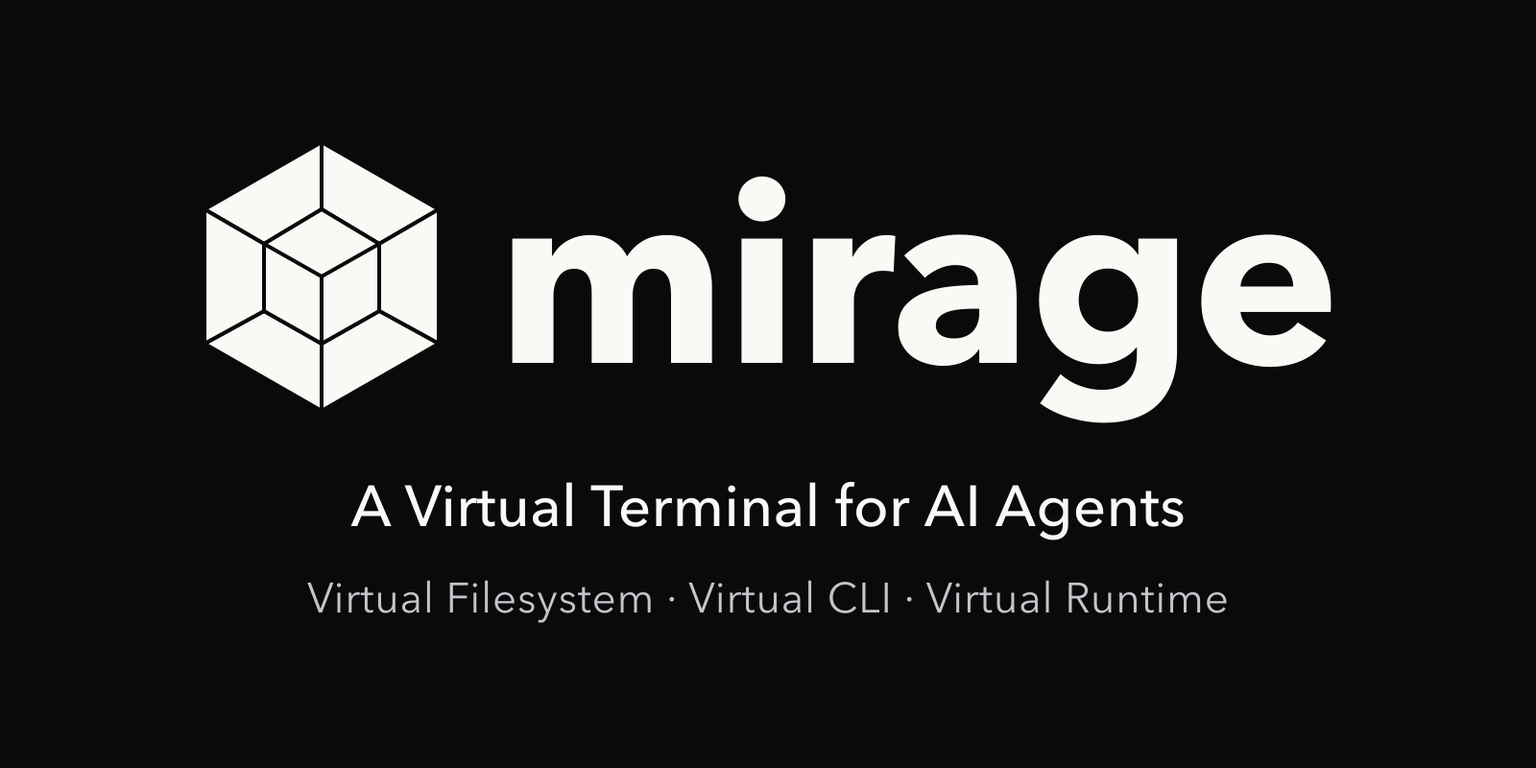
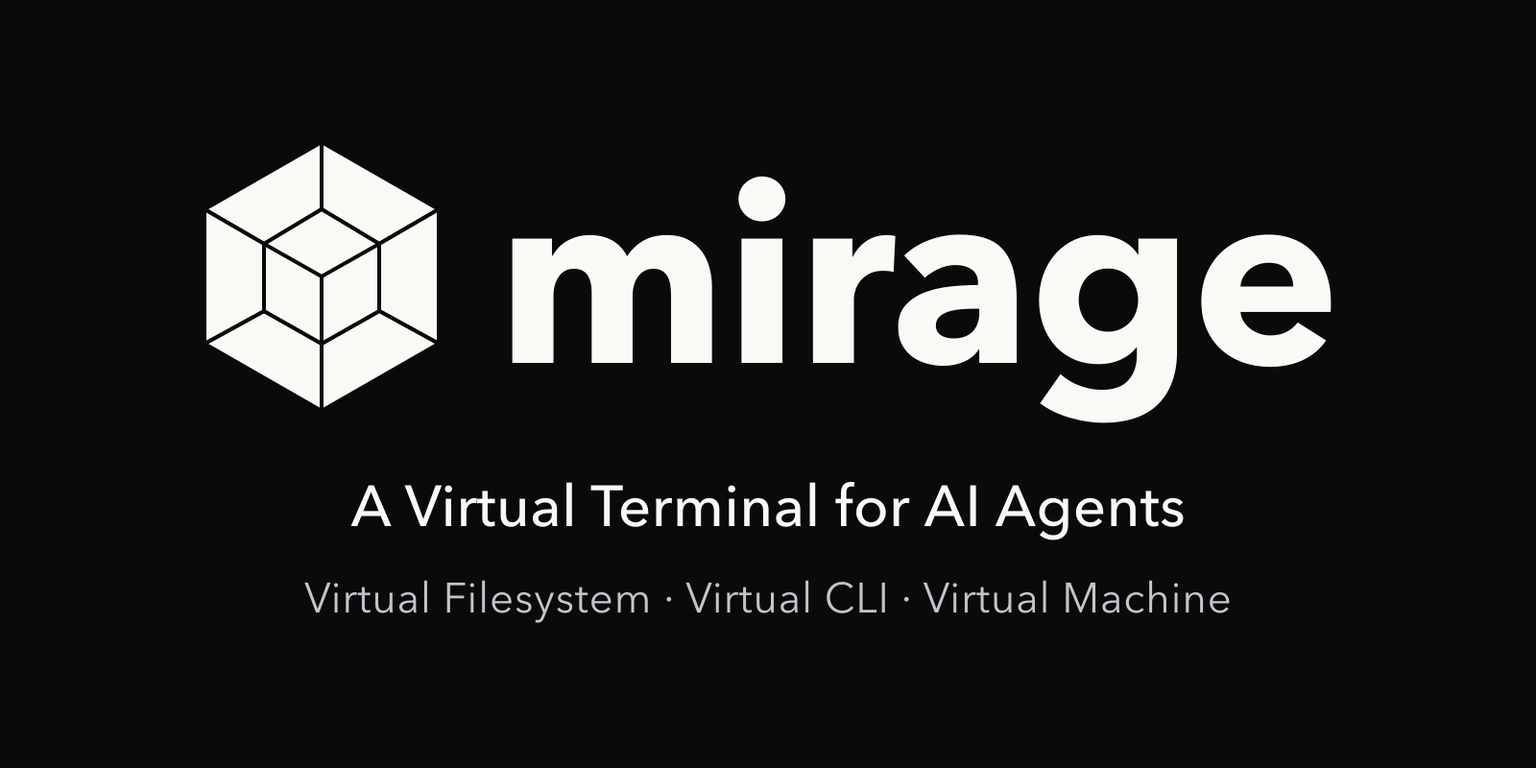
docs: the cover and README bullets say Virtual Machine, not Virtual Runtime (#2288)
* docs(assets): the cover reads Virtual Machine, not Virtual Runtime

* docs(readme): the about bullets route commands to machines, not runtimes

Changed region(s): [[0.1875, 0.75, 0.8125, 0.8125]]

diff --git a/readme/README.vi.md b/readme/README.vi.md
@@ -131,8 +131,8 @@ slack: Permission denied
 - **Một giao diện terminal ảo thống nhất, thay vì N SDK và M MCP.** Mọi backend đều dùng cùng một ngữ nghĩa hệ thống tệp, nên pipeline kết hợp được giữa các dịch vụ.
 - **Hệ thống tệp ảo trên mọi nguồn dữ liệu.** S3, Google Drive, Slack, Gmail, Redis và các nguồn khác được gắn cạnh nhau dưới một gốc duy nhất, nên agent tiếp cận tất cả qua một giao diện thống nhất bằng các công cụ unix nó đã biết như `ls`, `grep`, `find` và `jq`.
 - **Công cụ dòng lệnh ảo (CLI).** `git`, `slack` và `ntn` do chính Mirage đáp ứng, nên agent điều khiển dịch vụ mà không cần cài gì, xuyên qua các runtime và máy khác nhau; một công cụ còn có thể ảo hóa thành hai hoặc nhiều hơn, mỗi cái mang tên riêng với thông tin xác thực riêng.
-- **Runtime động, có định tuyến.** Python, JavaScript và bất kỳ lệnh nào khác đều có thể được gửi tới runtime đã cấu hình, trong tiến trình, trong sandbox hoặc từ xa, tách tính toán khỏi lưu trữ và cho phép đổi bên này mà không động tới bên kia.
-- **Mirage shell ảo hóa.** Nó gắn hệ thống tệp, các CLI và các runtime vào cùng một dòng lệnh, nên pipe, chuyển hướng, biến, job và lịch sử đều hoạt động xuyên cả ba.
+- **Máy động, có định tuyến.** Python, JavaScript và bất kỳ lệnh nào khác đều có thể được gửi tới máy đã cấu hình, trong tiến trình, trong sandbox hoặc từ xa, tách tính toán khỏi lưu trữ và cho phép đổi bên này mà không động tới bên kia.
+- **Mirage shell ảo hóa.** Nó gắn hệ thống tệp, các CLI và các máy vào cùng một dòng lệnh, nên pipe, chuyển hướng, biến, job và lịch sử đều hoạt động xuyên cả ba.
 - **Nhẹ ngay từ thiết kế.** Một workspace, tức chính terminal ảo, chiếm khoảng 100 KB bộ nhớ và mỗi session mới khoảng 10 KB, nên một tiến trình phục vụ nhiều agent mà không cần container hay VM cho từng agent.
 - **Profile thiết kế cho agent.** `allow`, `ask` và `deny` chi phối lệnh và CLI, còn `hide` và `show` chi phối tệp và thư mục, nên một đường dẫn bị ẩn không chỉ là không đọc được mà còn không tồn tại trong hệ thống tệp mà agent nhìn thấy.
 - **Công cụ chính sách viết được bằng script.** Một script chính sách có thể chặn mọi hành động nguy hiểm trước khi nó chạy, và cùng ngăn xếp đó kiểm soát mọi thao tác VFS và mọi lần ghi session, nên không tệp nào và không biến môi trường nào bị rò rỉ.

diff --git a/readme/README.de.md b/readme/README.de.md
@@ -131,8 +131,8 @@ slack: Permission denied
 - **Eine einheitliche virtuelle Terminal-Schnittstelle statt N SDKs und M MCPs.** Jedes Backend spricht dieselbe Dateisystem-Semantik, sodass sich Pipelines über Dienste hinweg zusammensetzen lassen.
 - **Ein virtuelles Dateisystem über alle Quellen.** S3, Google Drive, Slack, Gmail, Redis und die übrigen werden nebeneinander unter einer einzigen Wurzel eingehängt, sodass ein Agent sie alle über eine einheitliche Schnittstelle erreicht, mit den Unix-Werkzeugen, die er ohnehin kennt, etwa `ls`, `grep`, `find` und `jq`.
 - **Virtuelle Kommandozeilenwerkzeuge (CLIs).** `git`, `slack` und `ntn` beantwortet Mirage selbst, sodass ein Agent den Dienst ohne jede Installation bedient, über verschiedene Laufzeitumgebungen und Maschinen hinweg; ein Werkzeug lässt sich zudem in zwei oder mehr virtualisieren, jedes unter eigenem Namen mit eigenen Zugangsdaten.
-- **Geroutete, dynamische Laufzeitumgebungen.** Python, JavaScript und jeder andere Befehl kann an eine konfigurierte Laufzeitumgebung geschickt werden, im Prozess, in einer Sandbox oder entfernt, was Berechnung von Speicher entkoppelt und beide unabhängig voneinander austauschbar macht.
-- **Die virtualisierte Mirage-Shell.** Sie verbindet Dateisystem, CLIs und Laufzeitumgebungen zu einer einzigen Kommandozeile, sodass Pipes, Umleitungen, Variablen, Jobs und History über alle drei hinweg funktionieren.
+- **Geroutete, dynamische Maschinen.** Python, JavaScript und jeder andere Befehl kann an eine konfigurierte Maschine geschickt werden, im Prozess, in einer Sandbox oder entfernt, was Berechnung von Speicher entkoppelt und beide unabhängig voneinander austauschbar macht.
+- **Die virtualisierte Mirage-Shell.** Sie verbindet Dateisystem, CLIs und Maschinen zu einer einzigen Kommandozeile, sodass Pipes, Umleitungen, Variablen, Jobs und History über alle drei hinweg funktionieren.
 - **Von Grund auf leichtgewichtig.** Ein Workspace, das virtuelle Terminal selbst, belegt etwa 100 KB Speicher und jede neue Session etwa 10 KB, sodass ein Prozess viele Agenten bedient, ohne Container oder VM pro Agent.
 - **Profile, die für Agenten entworfen sind.** `allow`, `ask` und `deny` steuern Befehle und CLIs, `hide` und `show` steuern Dateien und Ordner, sodass ein verborgener Pfad nicht bloß unlesbar ist, sondern in dem Dateisystem, das der Agent sieht, gar nicht existiert.
 - **Eine skriptfähige Policy-Engine.** Ein Policy-Skript kann jede gefährliche Aktion verhindern, bevor sie ausgeführt wird, und derselbe Stapel prüft jede VFS-Operation und jeden Session-Schreibzugriff, sodass weder eine Datei noch eine Umgebungsvariable nach außen dringt.

diff --git a/readme/README.fr.md b/readme/README.fr.md
@@ -131,8 +131,8 @@ slack: Permission denied
 - **Une interface de terminal virtuel unifiée, au lieu de N SDK et M MCP.** Chaque backend parle la même sémantique de système de fichiers, si bien que les pipelines se composent entre services.
 - **Un système de fichiers virtuel sur toutes les sources.** S3, Google Drive, Slack, Gmail, Redis et les autres se montent côte à côte sous une seule racine, si bien qu'un agent les atteint tous via une interface unifiée, avec les outils unix qu'il connaît déjà comme `ls`, `grep`, `find` et `jq`.
 - **Outils en ligne de commande virtuels (CLI).** `git`, `slack` et `ntn` sont servis par Mirage lui-même, si bien qu'un agent pilote le service sans rien installer, à travers différents runtimes et machines, et un même outil peut être virtualisé en deux ou plus, chacun sous son propre nom avec ses propres identifiants.
-- **Runtimes dynamiques et routés.** Python, JavaScript et n'importe quelle autre commande peuvent être envoyés au runtime configuré, en processus, en bac à sable ou à distance, ce qui découple le calcul du stockage et permet de changer l'un sans toucher à l'autre.
-- **Le shell Mirage virtualisé.** Il relie le système de fichiers, les CLI et les runtimes en une seule ligne de commande, si bien que tubes, redirections, variables, jobs et historique fonctionnent à travers les trois.
+- **Machines dynamiques et routées.** Python, JavaScript et n'importe quelle autre commande peuvent être envoyés à la machine configurée, en processus, en bac à sable ou à distance, ce qui découple le calcul du stockage et permet de changer l'un sans toucher à l'autre.
+- **Le shell Mirage virtualisé.** Il relie le système de fichiers, les CLI et les machines en une seule ligne de commande, si bien que tubes, redirections, variables, jobs et historique fonctionnent à travers les trois.
 - **Léger par conception.** Un espace de travail, le terminal virtuel lui-même, occupe environ 100 Ko de mémoire et chaque nouvelle session environ 10 Ko, si bien qu'un seul processus sert de nombreux agents sans conteneur ni VM par agent.
 - **Des profils conçus pour les agents.** `allow`, `ask` et `deny` régissent les commandes et les CLI, tandis que `hide` et `show` régissent fichiers et dossiers, si bien qu'un chemin masqué n'est pas seulement illisible mais absent du système de fichiers que voit l'agent.
 - **Un moteur de politiques scriptable.** Un script de politique peut interdire toute action dangereuse avant son exécution, et la même pile filtre chaque opération VFS et chaque écriture de session, si bien que ni un fichier ni une variable d'environnement ne fuit.

diff --git a/readme/README.ko.md b/readme/README.ko.md
@@ -131,8 +131,8 @@ slack: Permission denied
 - **N개의 SDK와 M개의 MCP 대신 통합된 가상 터미널 인터페이스.** 모든 백엔드가 동일한 파일 시스템 의미론을 사용하므로 파이프라인이 서비스 간에 조합됩니다.
 - **모든 소스를 아우르는 가상 파일 시스템.** S3, Google Drive, Slack, Gmail, Redis 등이 하나의 루트 아래 나란히 마운트되어, 에이전트는 이미 아는 unix 도구인 `ls`, `grep`, `find`, `jq`로 통합된 인터페이스를 통해 모두에 접근합니다.
 - **가상 명령줄 도구(CLI).** `git`, `slack`, `ntn`은 Mirage가 직접 응답하므로 에이전트는 아무것도 설치하지 않고 서로 다른 런타임과 머신에 걸쳐 서비스를 다룰 수 있고, 하나의 도구를 둘 이상으로 가상화해 각각 고유한 이름과 자격 증명을 줄 수 있습니다.
-- **라우팅되는 동적 런타임.** Python, JavaScript를 비롯한 모든 명령을 설정된 런타임으로, 프로세스 내부나 샌드박스 또는 원격으로 보낼 수 있어 연산과 저장소가 분리되고 한쪽을 건드리지 않고 다른 쪽을 바꿀 수 있습니다.
-- **가상화된 Mirage 셸.** 파일 시스템과 CLI, 런타임을 하나의 명령줄로 묶어 파이프, 리다이렉션, 변수, 잡, 히스토리가 셋 모두에서 동작합니다.
+- **라우팅되는 동적 머신.** Python, JavaScript를 비롯한 모든 명령을 설정된 머신으로, 프로세스 내부나 샌드박스 또는 원격으로 보낼 수 있어 연산과 저장소가 분리되고 한쪽을 건드리지 않고 다른 쪽을 바꿀 수 있습니다.
+- **가상화된 Mirage 셸.** 파일 시스템과 CLI, 머신을 하나의 명령줄로 묶어 파이프, 리다이렉션, 변수, 잡, 히스토리가 셋 모두에서 동작합니다.
 - **가벼운 설계.** 가상 터미널 그 자체인 워크스페이스는 메모리를 약 100 KB, 새 세션은 약 10 KB 차지하므로, 에이전트마다 컨테이너나 VM 없이 하나의 프로세스가 많은 에이전트를 처리합니다.
 - **에이전트를 위해 설계된 프로파일.** `allow`, `ask`, `deny`가 명령과 CLI를 통제하고 `hide`와 `show`가 파일과 폴더를 통제하므로, 숨겨진 경로는 단순히 읽을 수 없는 것이 아니라 에이전트가 보는 파일 시스템에 존재하지 않습니다.
 - **스크립트로 작성하는 정책 엔진.** 정책 스크립트는 위험한 동작을 실행 전에 금지할 수 있으며, 같은 스택이 모든 VFS 작업과 세션 쓰기를 통제하므로 파일도 환경 변수도 새어 나가지 않습니다.

diff --git a/readme/README.zh-TW.md b/readme/README.zh-TW.md
@@ -131,8 +131,8 @@ slack: Permission denied
 - **統一的虛擬終端機介面，而不是 N 個 SDK 和 M 個 MCP。** 每個後端都使用同一套檔案系統語意，管線可以跨服務組合。
 - **涵蓋所有資料來源的虛擬檔案系統。** S3、Google Drive、Slack、Gmail、Redis 等並排掛載在同一個根目錄下，Agent 透過統一介面，用它已經會的 unix 工具（如 `ls`、`grep`、`find` 和 `jq`）存取全部資料來源。
 - **虛擬命令列工具（CLI）。** `git`、`slack` 和 `ntn` 由 Mirage 自己回應，Agent 無需安裝任何東西即可驅動這些服務，並可跨不同執行環境和機器；同一個工具還能虛擬成兩個或更多，各自使用獨立的名稱和憑證。
-- **動態路由的執行環境。** Python、JavaScript 以及任何其他命令都可以被送到所設定的執行環境，行程內、沙箱或遠端，從而把運算與儲存解耦，任何一方都可以獨立更換。
-- **虛擬化的 Mirage Shell。** 它把檔案系統、CLI 和執行環境綁定到同一條命令列上，因此管線、重新導向、變數、工作和歷史記錄在三者之間都可用。
+- **動態路由的機器。** Python、JavaScript 以及任何其他命令都可以被送到所設定的機器，行程內、沙箱或遠端，從而把運算與儲存解耦，任何一方都可以獨立更換。
+- **虛擬化的 Mirage Shell。** 它把檔案系統、CLI 和機器綁定到同一條命令列上，因此管線、重新導向、變數、工作和歷史記錄在三者之間都可用。
 - **輕量化設計。** 工作區，也就是虛擬終端機本身，約占 100 KB 記憶體，每個新工作階段約 10 KB，因此一個行程即可服務許多 Agent，無需為每個 Agent 準備容器或虛擬機。
 - **為 Agent 設計的 Profile。** `allow`、`ask` 和 `deny` 管控命令和 CLI，`hide` 和 `show` 管控檔案和目錄，因此被隱藏的路徑不只是不可讀，而是在 Agent 看到的檔案系統中根本不存在。
 - **可腳本化的策略引擎。** 策略腳本可以在任何危險操作執行前將其阻擋，同一套策略堆疊還會攔截每一次 VFS 操作和工作階段寫入，因此檔案和環境變數都不會外洩。

diff --git a/README.md b/README.md
@@ -132,8 +132,8 @@ slack: Permission denied
 - **Unified virtual terminal interface, not N SDKs and M MCPs.** Every backend speaks the same filesystem semantics, so pipelines compose across services.
 - **A virtual filesystem over every source.** S3, Google Drive, Slack, Gmail, Redis and the rest mount side by side under one root, so an agent reaches all of them through a unified interface with the unix tools it already knows, like `ls`, `grep`, `find` and `jq`.
 - **Virtual command line tools (CLIs).** `git`, `slack` and `ntn` are answered by Mirage itself, so an agent drives the service with nothing installed, across different runtimes and machines, and one tool can be virtualized into two or more, each under its own name with its own credentials.
-- **Routed, dynamic runtimes.** Python, JavaScript and any other command can be sent to a configured runtime, in process, sandboxed or remote, which decouples computation from storage and lets either change without touching the other.
-- **The virtualized Mirage shell.** It binds the filesystem, the CLIs and the runtimes into one command line, so pipes, redirection, variables, jobs and history work across all three.
+- **Routed, dynamic machines.** Python, JavaScript and any other command can be sent to a configured machine, in process, sandboxed or remote, which decouples computation from storage and lets either change without touching the other.
+- **The virtualized Mirage shell.** It binds the filesystem, the CLIs and the machines into one command line, so pipes, redirection, variables, jobs and history work across all three.
 - **Lightweight by design.** A workspace, the virtual terminal itself, takes about 100 KB of memory and each new session about 10 KB, so one process serves many agents without a container or VM per agent.
 - **Profiles designed for agents.** `allow`, `ask` and `deny` govern commands and CLIs, while `hide` and `show` govern files and folders, so a hidden path is not merely unreadable but absent from the filesystem the agent sees.
 - **A scriptable policy engine.** A policy script can prohibit any dangerous action before it runs, and the same stack gates every VFS op and session write, so neither a file nor an environment variable leaks.

diff --git a/python/README.md b/python/README.md
@@ -130,8 +130,8 @@ slack: Permission denied
 - **Unified virtual terminal interface, not N SDKs and M MCPs.** Every backend speaks the same filesystem semantics, so pipelines compose across services.
 - **A virtual filesystem over every source.** S3, Google Drive, Slack, Gmail, Redis and the rest mount side by side under one root, so an agent reaches all of them through a unified interface with the unix tools it already knows, like `ls`, `grep`, `find` and `jq`.
 - **Virtual command line tools (CLIs).** `git`, `slack` and `ntn` are answered by Mirage itself, so an agent drives the service with nothing installed, across different runtimes and machines, and one tool can be virtualized into two or more, each under its own name with its own credentials.
-- **Routed, dynamic runtimes.** Python, JavaScript and any other command can be sent to a configured runtime, in process, sandboxed or remote, which decouples computation from storage and lets either change without touching the other.
-- **The virtualized Mirage shell.** It binds the filesystem, the CLIs and the runtimes into one command line, so pipes, redirection, variables, jobs and history work across all three.
+- **Routed, dynamic machines.** Python, JavaScript and any other command can be sent to a configured machine, in process, sandboxed or remote, which decouples computation from storage and lets either change without touching the other.
+- **The virtualized Mirage shell.** It binds the filesystem, the CLIs and the machines into one command line, so pipes, redirection, variables, jobs and history work across all three.
 - **Lightweight by design.** A workspace, the virtual terminal itself, takes about 100 KB of memory and each new session about 10 KB, so one process serves many agents without a container or VM per agent.
 - **Profiles designed for agents.** `allow`, `ask` and `deny` govern commands and CLIs, while `hide` and `show` govern files and folders, so a hidden path is not merely unreadable but absent from the filesystem the agent sees.
 - **A scriptable policy engine.** A policy script can prohibit any dangerous action before it runs, and the same stack gates every VFS op and session write, so neither a file nor an environment variable leaks.

diff --git a/typescript/packages/browser/README.md b/typescript/packages/browser/README.md
@@ -130,8 +130,8 @@ slack: Permission denied
 - **Unified virtual terminal interface, not N SDKs and M MCPs.** Every backend speaks the same filesystem semantics, so pipelines compose across services.
 - **A virtual filesystem over every source.** S3, Google Drive, Slack, Gmail, Redis and the rest mount side by side under one root, so an agent reaches all of them through a unified interface with the unix tools it already knows, like `ls`, `grep`, `find` and `jq`.
 - **Virtual command line tools (CLIs).** `git`, `slack` and `ntn` are answered by Mirage itself, so an agent drives the service with nothing installed, across different runtimes and machines, and one tool can be virtualized into two or more, each under its own name with its own credentials.
-- **Routed, dynamic runtimes.** Python, JavaScript and any other command can be sent to a configured runtime, in process, sandboxed or remote, which decouples computation from storage and lets either change without touching the other.
-- **The virtualized Mirage shell.** It binds the filesystem, the CLIs and the runtimes into one command line, so pipes, redirection, variables, jobs and history work across all three.
+- **Routed, dynamic machines.** Python, JavaScript and any other command can be sent to a configured machine, in process, sandboxed or remote, which decouples computation from storage and lets either change without touching the other.
+- **The virtualized Mirage shell.** It binds the filesystem, the CLIs and the machines into one command line, so pipes, redirection, variables, jobs and history work across all three.
 - **Lightweight by design.** A workspace, the virtual terminal itself, takes about 100 KB of memory and each new session about 10 KB, so one process serves many agents without a container or VM per agent.
 - **Profiles designed for agents.** `allow`, `ask` and `deny` govern commands and CLIs, while `hide` and `show` govern files and folders, so a hidden path is not merely unreadable but absent from the filesystem the agent sees.
 - **A scriptable policy engine.** A policy script can prohibit any dangerous action before it runs, and the same stack gates every VFS op and session write, so neither a file nor an environment variable leaks.

diff --git a/typescript/packages/claude-agent-sdk/README.md b/typescript/packages/claude-agent-sdk/README.md
@@ -130,8 +130,8 @@ slack: Permission denied
 - **Unified virtual terminal interface, not N SDKs and M MCPs.** Every backend speaks the same filesystem semantics, so pipelines compose across services.
 - **A virtual filesystem over every source.** S3, Google Drive, Slack, Gmail, Redis and the rest mount side by side under one root, so an agent reaches all of them through a unified interface with the unix tools it already knows, like `ls`, `grep`, `find` and `jq`.
 - **Virtual command line tools (CLIs).** `git`, `slack` and `ntn` are answered by Mirage itself, so an agent drives the service with nothing installed, across different runtimes and machines, and one tool can be virtualized into two or more, each under its own name with its own credentials.
-- **Routed, dynamic runtimes.** Python, JavaScript and any other command can be sent to a configured runtime, in process, sandboxed or remote, which decouples computation from storage and lets either change without touching the other.
-- **The virtualized Mirage shell.** It binds the filesystem, the CLIs and the runtimes into one command line, so pipes, redirection, variables, jobs and history work across all three.
+- **Routed, dynamic machines.** Python, JavaScript and any other command can be sent to a configured machine, in process, sandboxed or remote, which decouples computation from storage and lets either change without touching the other.
+- **The virtualized Mirage shell.** It binds the filesystem, the CLIs and the machines into one command line, so pipes, redirection, variables, jobs and history work across all three.
 - **Lightweight by design.** A workspace, the virtual terminal itself, takes about 100 KB of memory and each new session about 10 KB, so one process serves many agents without a container or VM per agent.
 - **Profiles designed for agents.** `allow`, `ask` and `deny` govern commands and CLIs, while `hide` and `show` govern files and folders, so a hidden path is not merely unreadable but absent from the filesystem the agent sees.
 - **A scriptable policy engine.** A policy script can prohibit any dangerous action before it runs, and the same stack gates every VFS op and session write, so neither a file nor an environment variable leaks.

diff --git a/typescript/packages/claude-managed-agents/README.md b/typescript/packages/claude-managed-agents/README.md
@@ -130,8 +130,8 @@ slack: Permission denied
 - **Unified virtual terminal interface, not N SDKs and M MCPs.** Every backend speaks the same filesystem semantics, so pipelines compose across services.
 - **A virtual filesystem over every source.** S3, Google Drive, Slack, Gmail, Redis and the rest mount side by side under one root, so an agent reaches all of them through a unified interface with the unix tools it already knows, like `ls`, `grep`, `find` and `jq`.
 - **Virtual command line tools (CLIs).** `git`, `slack` and `ntn` are answered by Mirage itself, so an agent drives the service with nothing installed, across different runtimes and machines, and one tool can be virtualized into two or more, each under its own name with its own credentials.
-- **Routed, dynamic runtimes.** Python, JavaScript and any other command can be sent to a configured runtime, in process, sandboxed or remote, which decouples computation from storage and lets either change without touching the other.
-- **The virtualized Mirage shell.** It binds the filesystem, the CLIs and the runtimes into one command line, so pipes, redirection, variables, jobs and history work across all three.
+- **Routed, dynamic machines.** Python, JavaScript and any other command can be sent to a configured machine, in process, sandboxed or remote, which decouples computation from storage and lets either change without touching the other.
+- **The virtualized Mirage shell.** It binds the filesystem, the CLIs and the machines into one command line, so pipes, redirection, variables, jobs and history work across all three.
 - **Lightweight by design.** A workspace, the virtual terminal itself, takes about 100 KB of memory and each new session about 10 KB, so one process serves many agents without a container or VM per agent.
 - **Profiles designed for agents.** `allow`, `ask` and `deny` govern commands and CLIs, while `hide` and `show` govern files and folders, so a hidden path is not merely unreadable but absent from the filesystem the agent sees.
 - **A scriptable policy engine.** A policy script can prohibit any dangerous action before it runs, and the same stack gates every VFS op and session write, so neither a file nor an environment variable leaks.

diff --git a/typescript/packages/cli/README.md b/typescript/packages/cli/README.md
@@ -130,8 +130,8 @@ slack: Permission denied
 - **Unified virtual terminal interface, not N SDKs and M MCPs.** Every backend speaks the same filesystem semantics, so pipelines compose across services.
 - **A virtual filesystem over every source.** S3, Google Drive, Slack, Gmail, Redis and the rest mount side by side under one root, so an agent reaches all of them through a unified interface with the unix tools it already knows, like `ls`, `grep`, `find` and `jq`.
 - **Virtual command line tools (CLIs).** `git`, `slack` and `ntn` are answered by Mirage itself, so an agent drives the service with nothing installed, across different runtimes and machines, and one tool can be virtualized into two or more, each under its own name with its own credentials.
-- **Routed, dynamic runtimes.** Python, JavaScript and any other command can be sent to a configured runtime, in process, sandboxed or remote, which decouples computation from storage and lets either change without touching the other.
-- **The virtualized Mirage shell.** It binds the filesystem, the CLIs and the runtimes into one command line, so pipes, redirection, variables, jobs and history work across all three.
+- **Routed, dynamic machines.** Python, JavaScript and any other command can be sent to a configured machine, in process, sandboxed or remote, which decouples computation from storage and lets either change without touching the other.
+- **The virtualized Mirage shell.** It binds the filesystem, the CLIs and the machines into one command line, so pipes, redirection, variables, jobs and history work across all three.
 - **Lightweight by design.** A workspace, the virtual terminal itself, takes about 100 KB of memory and each new session about 10 KB, so one process serves many agents without a container or VM per agent.
 - **Profiles designed for agents.** `allow`, `ask` and `deny` govern commands and CLIs, while `hide` and `show` govern files and folders, so a hidden path is not merely unreadable but absent from the filesystem the agent sees.
 - **A scriptable policy engine.** A policy script can prohibit any dangerous action before it runs, and the same stack gates every VFS op and session write, so neither a file nor an environment variable leaks.

diff --git a/typescript/packages/core/README.md b/typescript/packages/core/README.md
@@ -130,8 +130,8 @@ slack: Permission denied
 - **Unified virtual terminal interface, not N SDKs and M MCPs.** Every backend speaks the same filesystem semantics, so pipelines compose across services.
 - **A virtual filesystem over every source.** S3, Google Drive, Slack, Gmail, Redis and the rest mount side by side under one root, so an agent reaches all of them through a unified interface with the unix tools it already knows, like `ls`, `grep`, `find` and `jq`.
 - **Virtual command line tools (CLIs).** `git`, `slack` and `ntn` are answered by Mirage itself, so an agent drives the service with nothing installed, across different runtimes and machines, and one tool can be virtualized into two or more, each under its own name with its own credentials.
-- **Routed, dynamic runtimes.** Python, JavaScript and any other command can be sent to a configured runtime, in process, sandboxed or remote, which decouples computation from storage and lets either change without touching the other.
-- **The virtualized Mirage shell.** It binds the filesystem, the CLIs and the runtimes into one command line, so pipes, redirection, variables, jobs and history work across all three.
+- **Routed, dynamic machines.** Python, JavaScript and any other command can be sent to a configured machine, in process, sandboxed or remote, which decouples computation from storage and lets either change without touching the other.
+- **The virtualized Mirage shell.** It binds the filesystem, the CLIs and the machines into one command line, so pipes, redirection, variables, jobs and history work across all three.
 - **Lightweight by design.** A workspace, the virtual terminal itself, takes about 100 KB of memory and each new session about 10 KB, so one process serves many agents without a container or VM per agent.
 - **Profiles designed for agents.** `allow`, `ask` and `deny` govern commands and CLIs, while `hide` and `show` govern files and folders, so a hidden path is not merely unreadable but absent from the filesystem the agent sees.
 - **A scriptable policy engine.** A policy script can prohibit any dangerous action before it runs, and the same stack gates every VFS op and session write, so neither a file nor an environment variable leaks.
